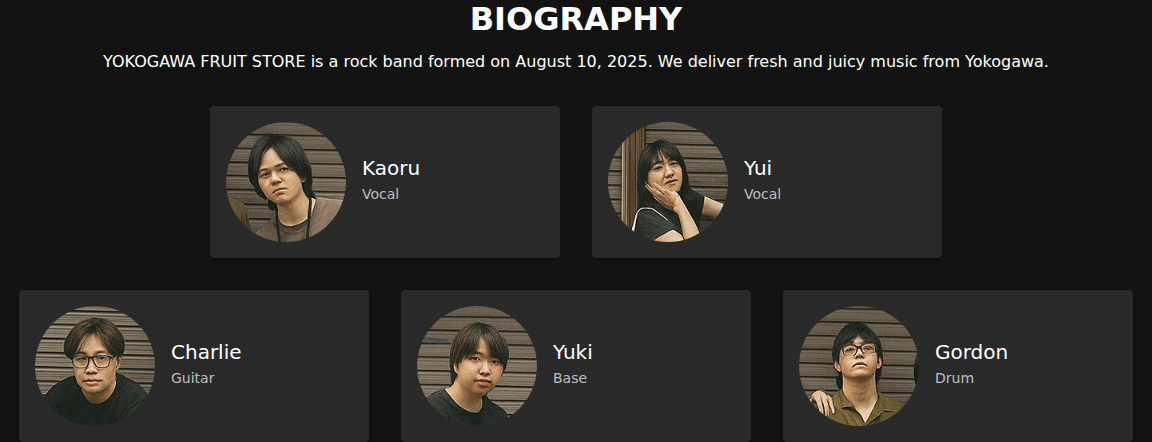
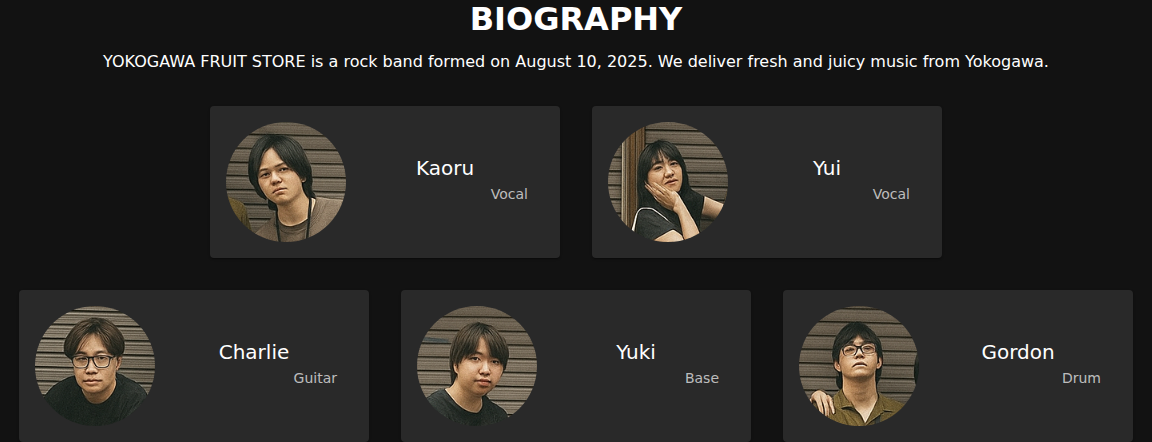
Fix: Set fixed width and align text for member cards
This commit resolves two issues with the member profile cards:
1.  The card widths were variable. They are now set to a fixed, uniform width of 350px.
2.  The internal text alignment created an unbalanced look. The member's name is now left-aligned and their role is right-aligned for better balance.

This commit preserves your specified 2+3 grid layout. A `SPECIFICATIONS.md` file has also been added to document layout requirements.

diff --git a/src/App.jsx b/src/App.jsx
@@ -151,9 +151,9 @@ function App() {
                         alt={member.name}
                         sx={{ borderRadius: '50%', width: 120, height: 120, flexShrink: 0 }}
                       />
-                      <CardContent sx={{ flex: '1 1 auto', textAlign: 'left', pl: 2 }}>
+                      <CardContent sx={{ flex: '1 1 auto', pl: 2 }}>
                         <Typography variant="h6">{member.name}</Typography>
-                        <Typography variant="body2" color="text.secondary">{member.role}</Typography>
+                        <Typography variant="body2" color="text.secondary" sx={{ textAlign: 'right' }}>{member.role}</Typography>
                       </CardContent>
                     </Card>
                   </Grid>
@@ -169,9 +169,9 @@ function App() {
                         alt={member.name}
                         sx={{ borderRadius: '50%', width: 120, height: 120, flexShrink: 0 }}
                       />
-                      <CardContent sx={{ flex: '1 1 auto', textAlign: 'left', pl: 2 }}>
+                      <CardContent sx={{ flex: '1 1 auto', pl: 2 }}>
                         <Typography variant="h6">{member.name}</Typography>
-                        <Typography variant="body2" color="text.secondary">{member.role}</Typography>
+                        <Typography variant="body2" color="text.secondary" sx={{ textAlign: 'right' }}>{member.role}</Typography>
                       </CardContent>
                     </Card>
                   </Grid>
